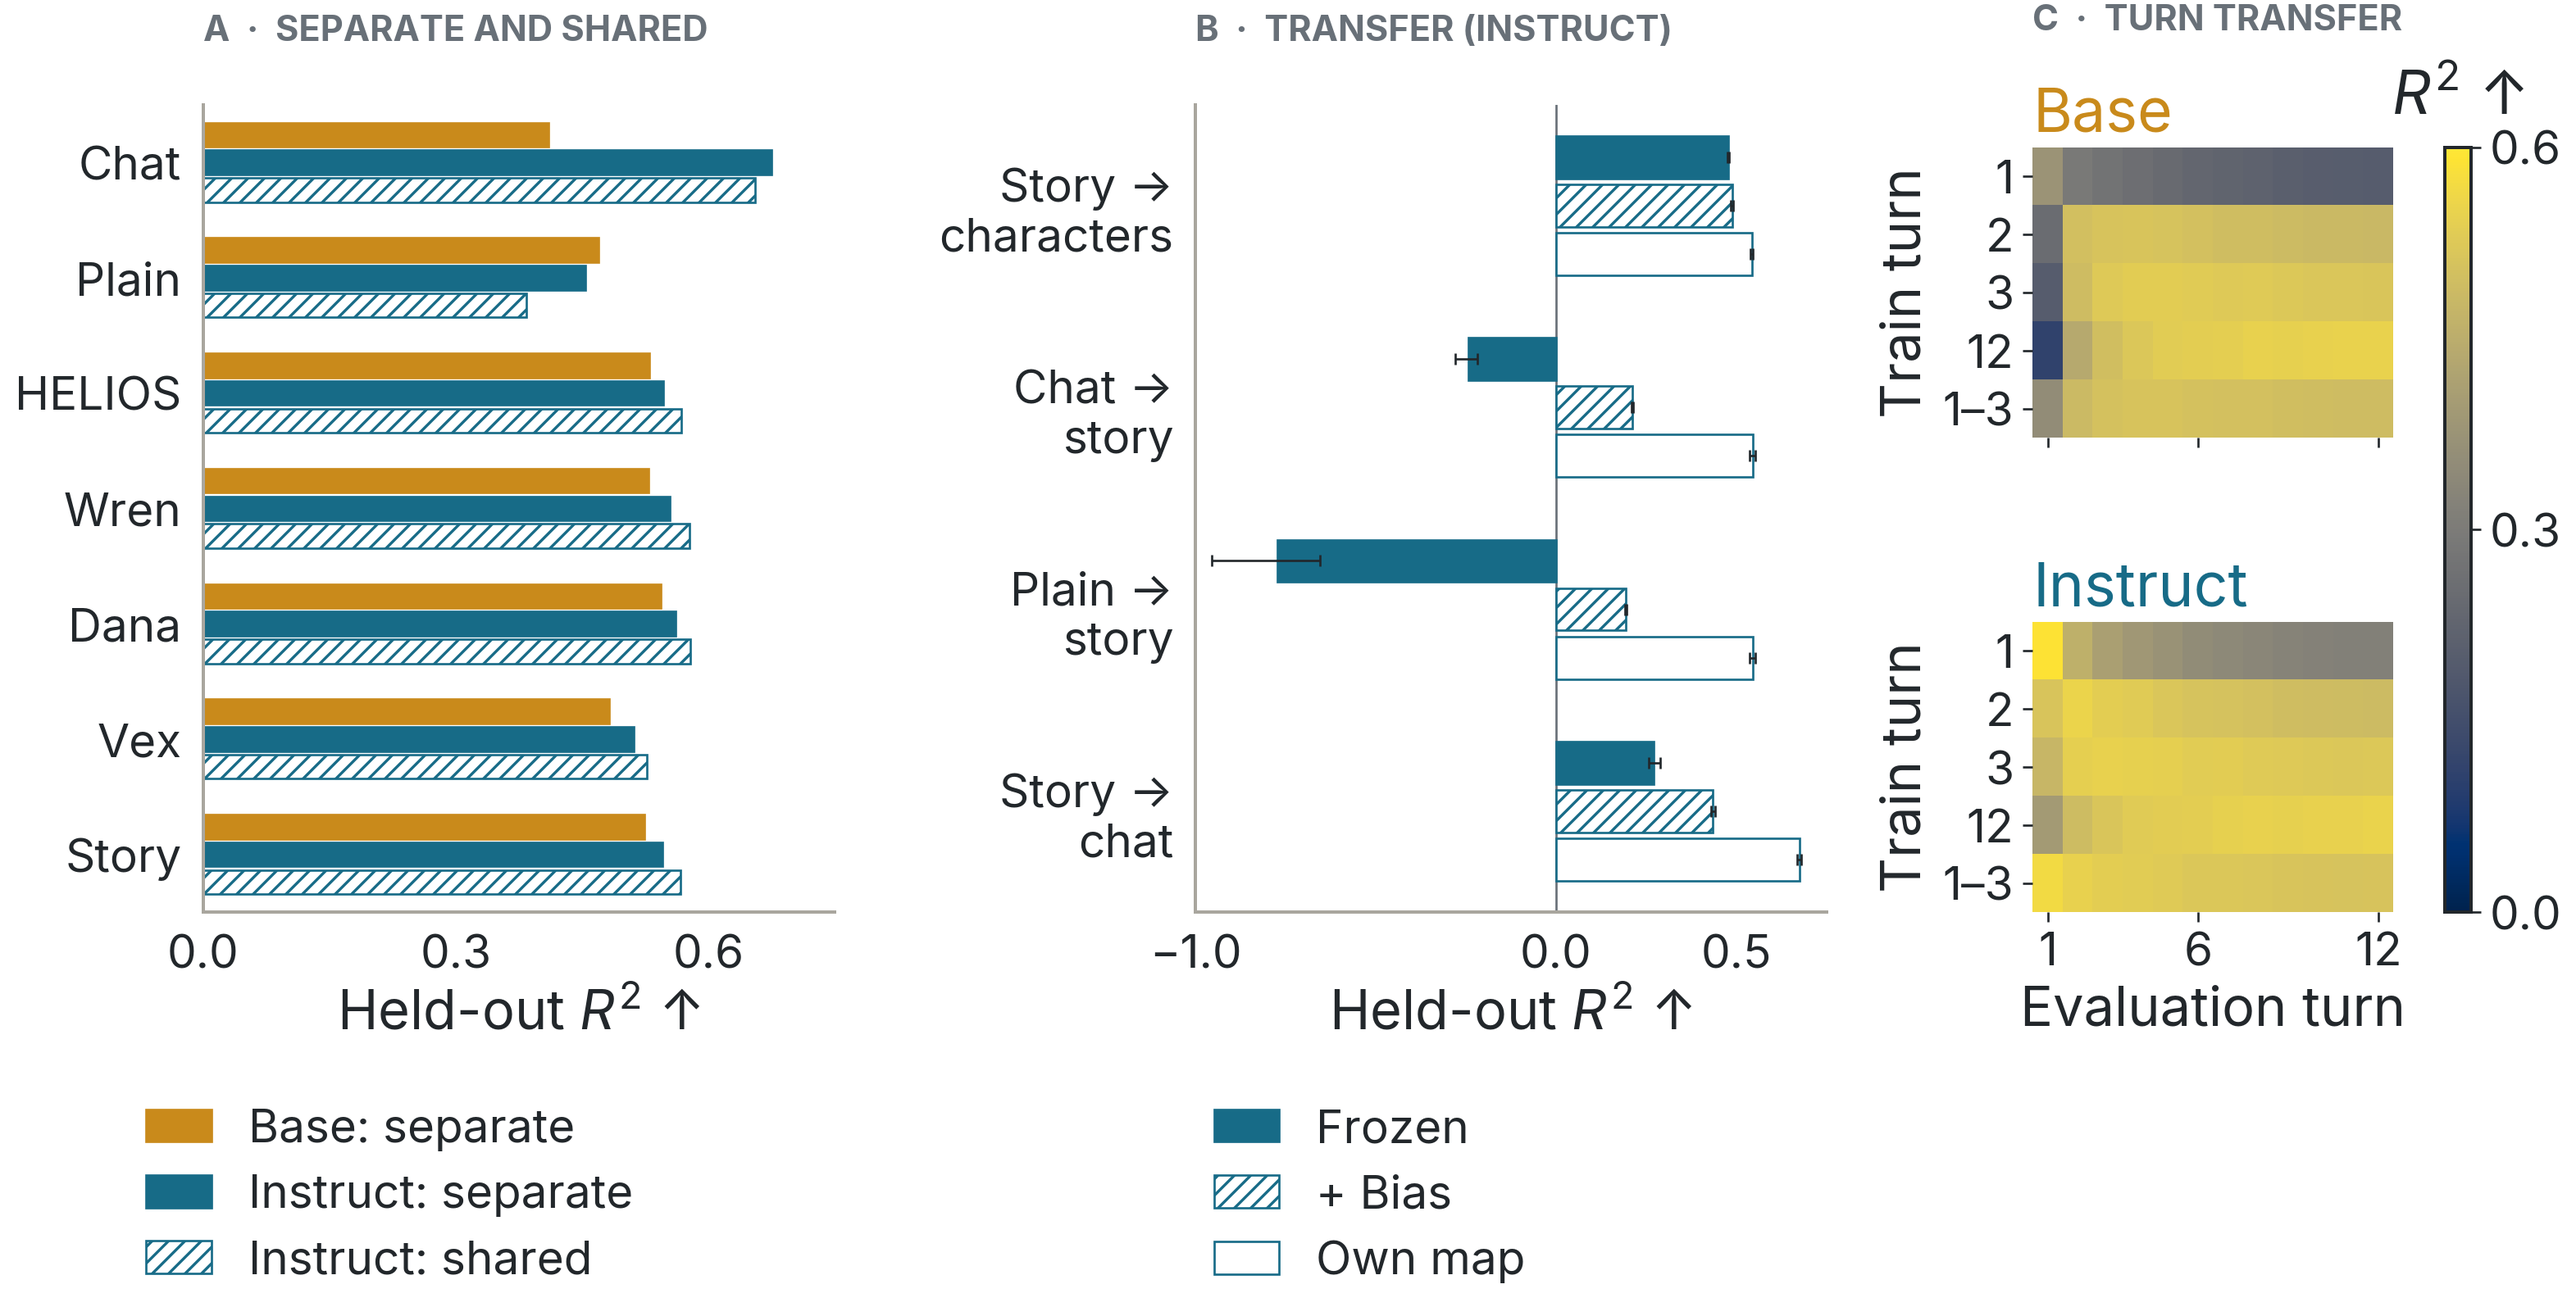
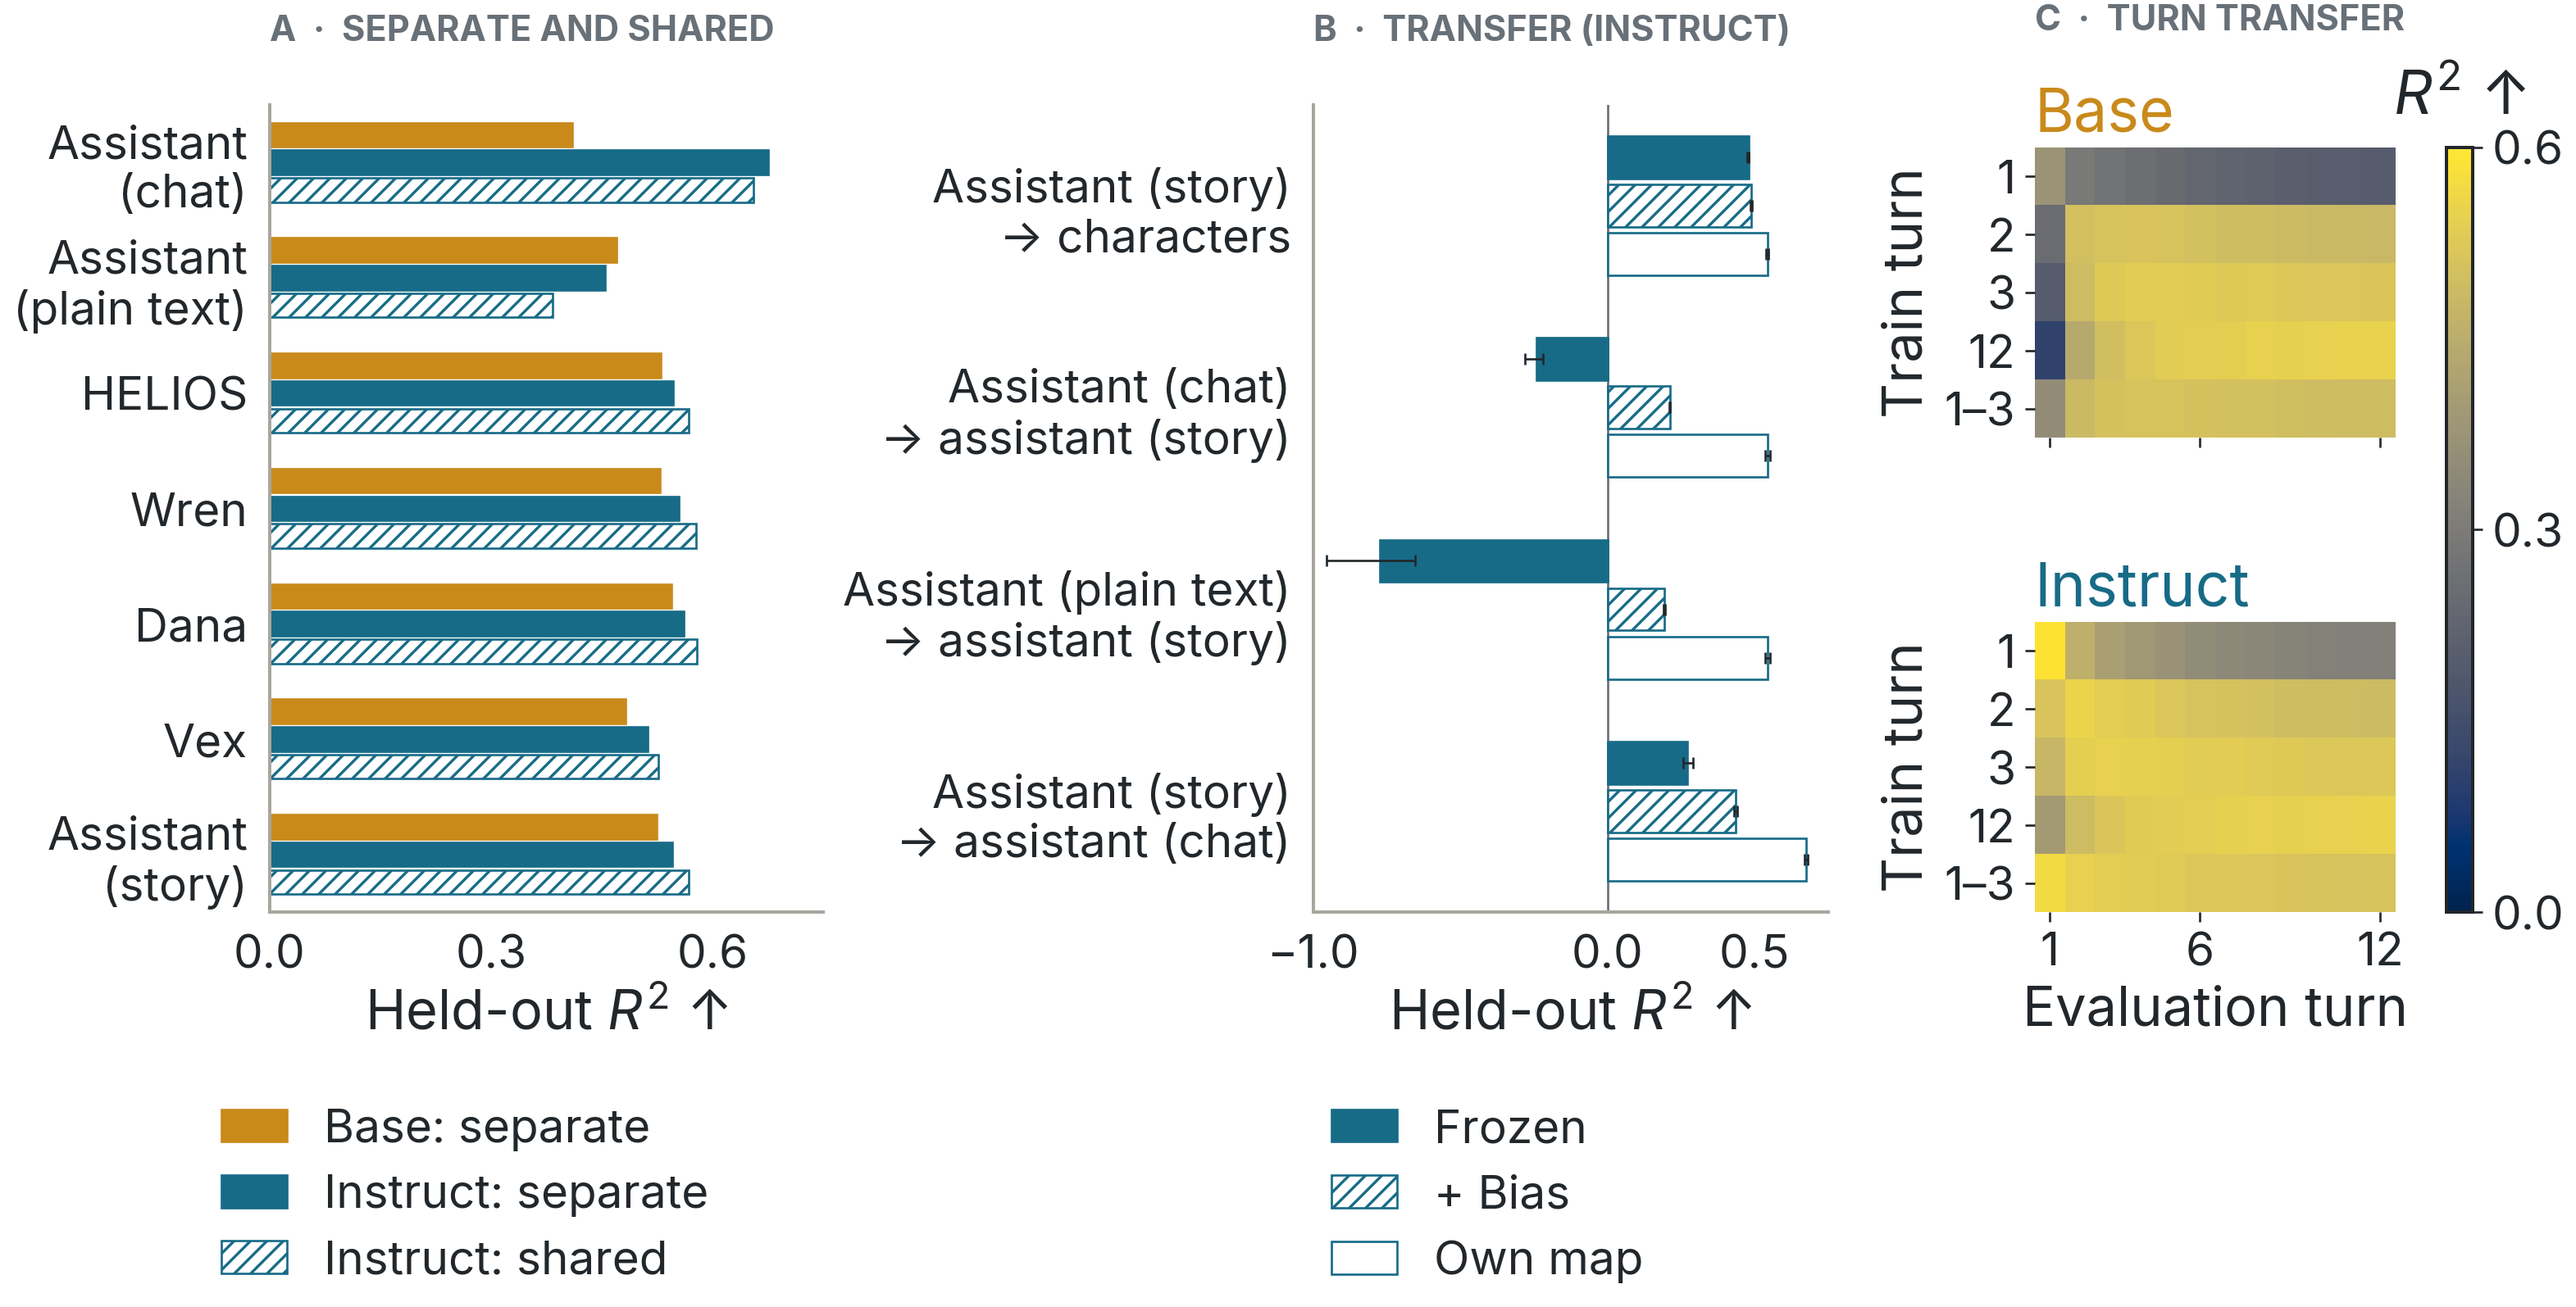
Clarify assistant identities in speaker figure labels

diff --git a/scripts/issue2054_story_manuscript_figure.py b/scripts/issue2054_story_manuscript_figure.py
@@ -140,8 +140,8 @@ def render(data: dict, output: Path) -> dict:
     """Place joint/separate bars, Instruct transfer bars and turn heatmaps in one row."""
     set_c2a_style()
     fig, fraction = c2a_figure("full", aspect=0.55)
-    a = fig.add_axes([0.080, 0.31, 0.245, 0.57])
-    b = fig.add_axes([0.465, 0.31, 0.245, 0.57])
+    a = fig.add_axes([0.105, 0.31, 0.215, 0.57])
+    b = fig.add_axes([0.510, 0.31, 0.200, 0.57])
     for ax, letter, title in [(a, "A", "Separate and shared"), (b, "B", "Transfer (Instruct)")]:
         style_axis(ax, grid_axis="none")
         panel_header(ax, letter, title, kicker_y=1.07)
@@ -164,7 +164,18 @@ def render(data: dict, output: Path) -> dict:
             hatch=hatch,
             label=label,
         )
-    a.set_yticks(range(7), ["Chat", "Plain", "HELIOS", "Wren", "Dana", "Vex", "Story"])
+    a.set_yticks(
+        range(7),
+        [
+            "Assistant\n(chat)",
+            "Assistant\n(plain text)",
+            "HELIOS",
+            "Wren",
+            "Dana",
+            "Vex",
+            "Assistant\n(story)",
+        ],
+    )
     a.set_ylim(6.5, -0.5)
     a.set_xlim(0, 0.75)
     a.set_xticks([0, 0.3, 0.6])
@@ -192,7 +203,13 @@ def render(data: dict, output: Path) -> dict:
                 error_kw={"ecolor": INK, "capsize": 2, "elinewidth": 0.8, "capthick": 0.8},
             )
     b.set_yticks(
-        range(4), ["Story →\ncharacters", "Chat →\nstory", "Plain →\nstory", "Story →\nchat"]
+        range(4),
+        [
+            "Assistant (story)\n→ characters",
+            "Assistant (chat)\n→ assistant (story)",
+            "Assistant (plain text)\n→ assistant (story)",
+            "Assistant (story)\n→ assistant (chat)",
+        ],
     )
     b.set_ylim(3.5, -0.5)
     endpoints = [

diff --git a/docs/paper_context_answer_map/ai_use_log.md b/docs/paper_context_answer_map/ai_use_log.md
@@ -91,3 +91,4 @@ programmatically, never generated from model memory.
 
 | 2026-09-16 | Codex inserted the approved concise speaker-transfer section, removed the requested pooling sentence, added the assistant-in-story and frozen/calibrated transfer comparisons, and updated the corresponding figure and appendix. [Overleaf](https://www.overleaf.com/project/6a59c927290f8b8b5eee0055), 198dc76470514a3363def9997d4e45649a96f13f. | Thomas selected the wording, headings and deletion and authorized insertion and push. Existing artifacts supply all results; no new fitting or generation. Independent prose/evidence and figure/data reviews passed, including all 168 added table cells and 120 preserved turn heatmap values. Writing gates, renderer lint, exact export reproduction and stable-reference compilation passed; affected layouts inspected. Concurrent author edits preserved and fast-forward remote push verified. |
 | 2026-09-16 | Codex refitted the Instruct shared map on all seven saved settings, including the story assistant, and combined separate/shared comparisons into bars with an Instruct-only transfer panel and unchanged turn heatmaps. Simplified the main figure to bias-only calibration and retained scale in the appendix. [Overleaf](https://www.overleaf.com/project/6a59c927290f8b8b5eee0055), 1e2dff000932032aea223dee37ca9aef80cb4432. | Thomas requested the rerun, panel combination, bars, side-by-side layout and calibration simplification. Five maps and all 35 evaluations completed using existing K5 data/folds; no new generations. Independent evidence, figure and prose audits passed, including all 140 new R² values, 350 shared retrieval statistics, 56 new table values and preserved heatmaps. Color/grayscale and compiled layout inspected; exact export reproduction and writing gates passed. Existing unrelated repository lint/test failures are documented alongside corrected payload checks. Concurrent author edits preserved; fast-forward Overleaf push verified. |
+| 2026-09-16 | Codex replaced abbreviated framing labels in the speaker figure with Assistant (chat), Assistant (plain text), and Assistant (story), including transfer endpoints, and clarified the caption. [Overleaf](https://www.overleaf.com/project/6a59c927290f8b8b5eee0055). | Thomas requested explicit assistant identities. Plotting data and turn matrices are exactly unchanged. Renderer formatting/lint, writing gate and stable-reference manuscript compilation passed; color, grayscale and compiled-page layouts inspected. |
